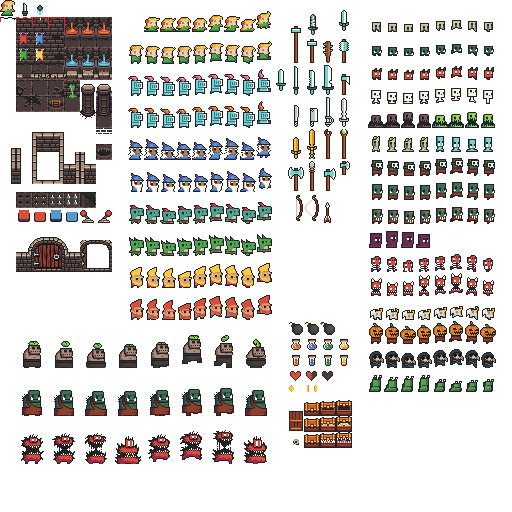
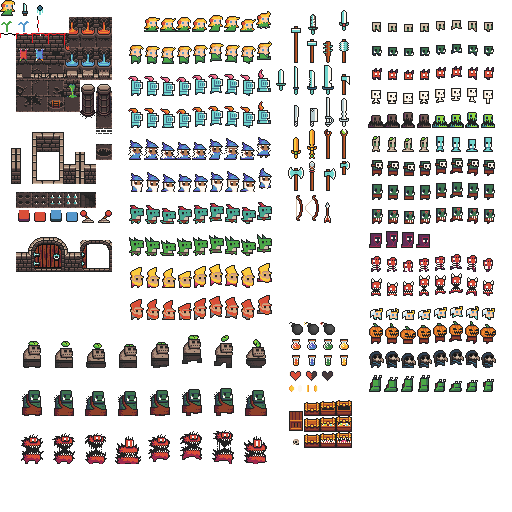
add world decoration and camera pancam plugin

Changed region(s): [[0.0, 0.0312, 0.1562, 0.125]]

diff --git a/src/world.rs b/src/world.rs
@@ -1,0 +1,29 @@
+use bevy::math::vec2;
+use bevy::prelude::*;
+use rand::{thread_rng, Rng};
+
+use crate::prelude::SpriteSheet;
+use crate::prelude::*;
+
+const Z_INDEX: f32 = 0.;
+const WORLD_WIDTH: f32 = 3000.;
+const WORLD_HEIGHT: f32 = 3000.;
+const WORLD_DECORATION_COUNT: usize = 100;
+
+pub fn spawn_decoration(mut commands: Commands, sprite_sheet: Res<SpriteSheet>) {
+    for _ in 0..WORLD_DECORATION_COUNT {
+        let x = thread_rng().gen_range((-WORLD_WIDTH / 2.)..(WORLD_WIDTH / 2.));
+        let y = thread_rng().gen_range((-WORLD_HEIGHT / 2.)..(WORLD_HEIGHT / 2.));
+
+        commands.spawn((SpriteSheetBundle {
+            texture: sprite_sheet.texture.clone().unwrap(),
+            atlas: TextureAtlas {
+                layout: sprite_sheet.layout.clone().unwrap(),
+                index: thread_rng().gen_range(4..=5),
+            },
+            transform: Transform::from_scale(Vec3::splat(SPRITE_SCALE_FACTOR))
+                .with_translation(vec2(x, y).extend(Z_INDEX)),
+            ..default()
+        },));
+    }
+}

diff --git a/src/camera.rs b/src/camera.rs
@@ -1,4 +1,5 @@
 use bevy::prelude::*;
+use bevy_pancam::{PanCam, PanCamPlugin};
 
 use crate::state::GameState::GameInit;
 
@@ -6,9 +7,13 @@ pub struct CameraPlugin;
 
 impl Plugin for CameraPlugin {
     fn build(&self, app: &mut App) {
-        app.add_systems(OnEnter(GameInit), setup_camera);
+        app.add_plugins(PanCamPlugin::default())
+            .add_systems(OnEnter(GameInit), setup_camera);
     }
 }
 fn setup_camera(mut commands: Commands) {
-    commands.spawn(Camera2dBundle::default());
+    commands.spawn(Camera2dBundle::default()).insert(PanCam {
+        grab_buttons: vec![MouseButton::Middle],
+        ..default()
+    });
 }

diff --git a/src/state.rs b/src/state.rs
@@ -1,7 +1,7 @@
 use bevy::prelude::*;
 
 use crate::state::GameState::{GameInit, InGame, Loading};
-use crate::{player, resource};
+use crate::{player, resource, world};
 
 #[derive(Debug, Clone, Copy, Default, Eq, PartialEq, Hash, States)]
 pub enum GameState {
@@ -26,6 +26,7 @@ impl Plugin for GameStatePlugin {
                 (
                     player::spawn_player,
                     player::gun::spawn_gun,
+                    world::spawn_decoration,
                     transition_to_next_state,
                 )
                     .chain(),

diff --git a/src/resource.rs b/src/resource.rs
@@ -5,7 +5,7 @@ use crate::state::GameState::InGame;
 
 const SPRITE_SHEET_PATH: &str = "sheet.png";
 const SPRITE_SHEET_W: usize = 4;
-const SPRITE_SHEET_H: usize = 1;
+const SPRITE_SHEET_H: usize = 2;
 const TILE_W: usize = 16;
 const TILE_H: usize = 16;
 

diff --git a/src/lib.rs b/src/lib.rs
@@ -9,3 +9,4 @@ pub mod resource;
 pub mod setup;
 pub mod state;
 pub mod stepping;
+pub mod world;
